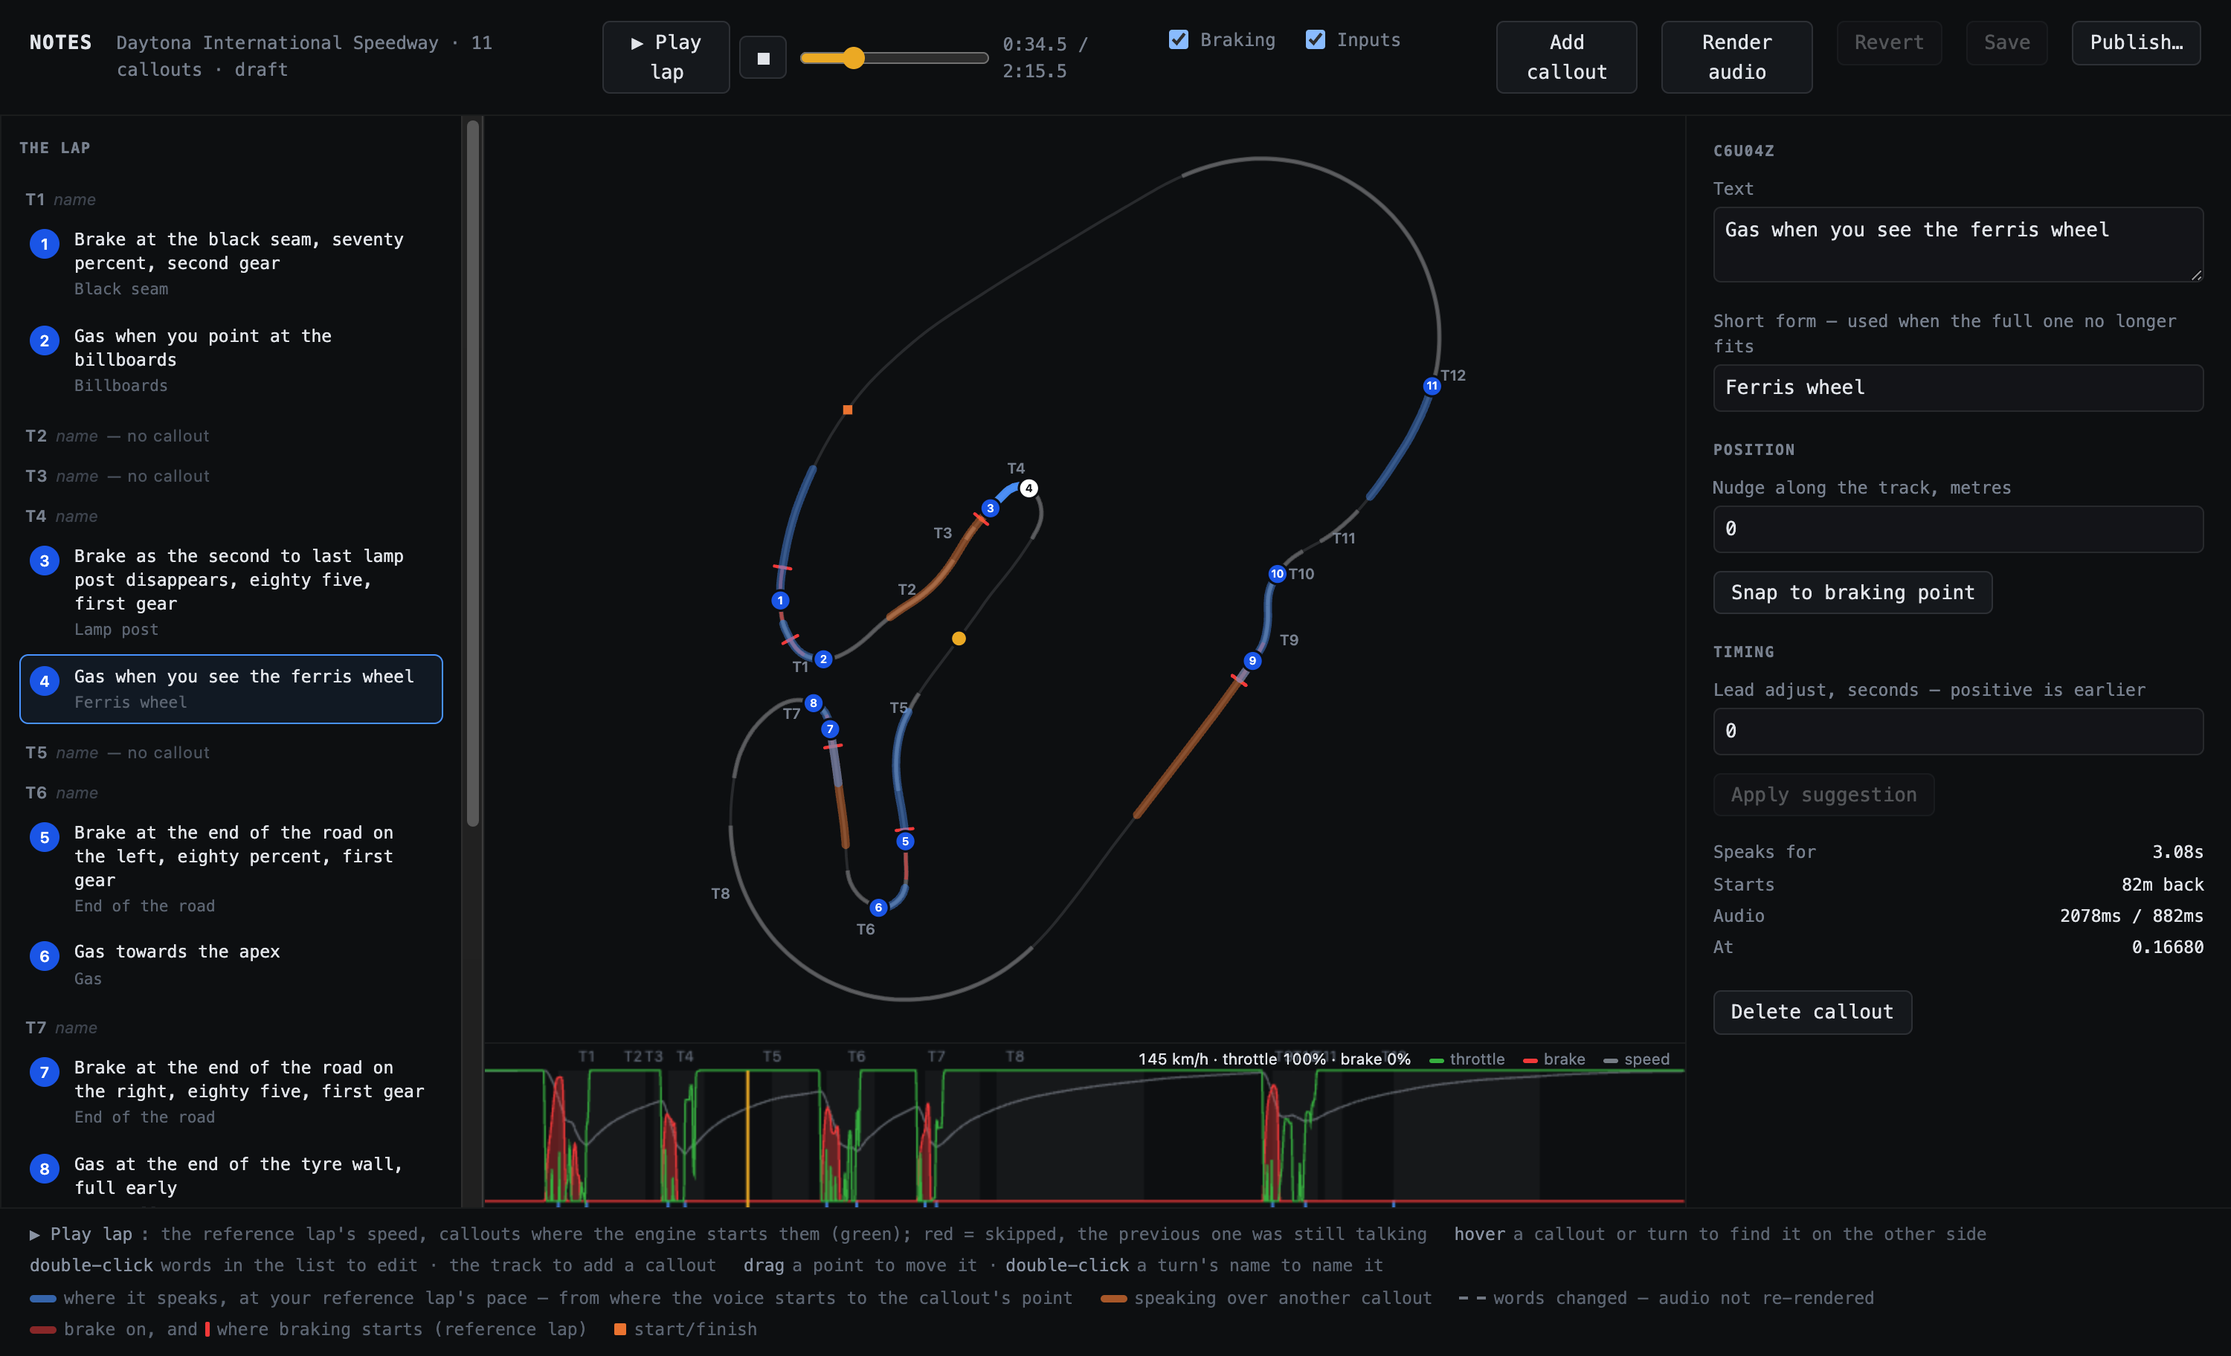
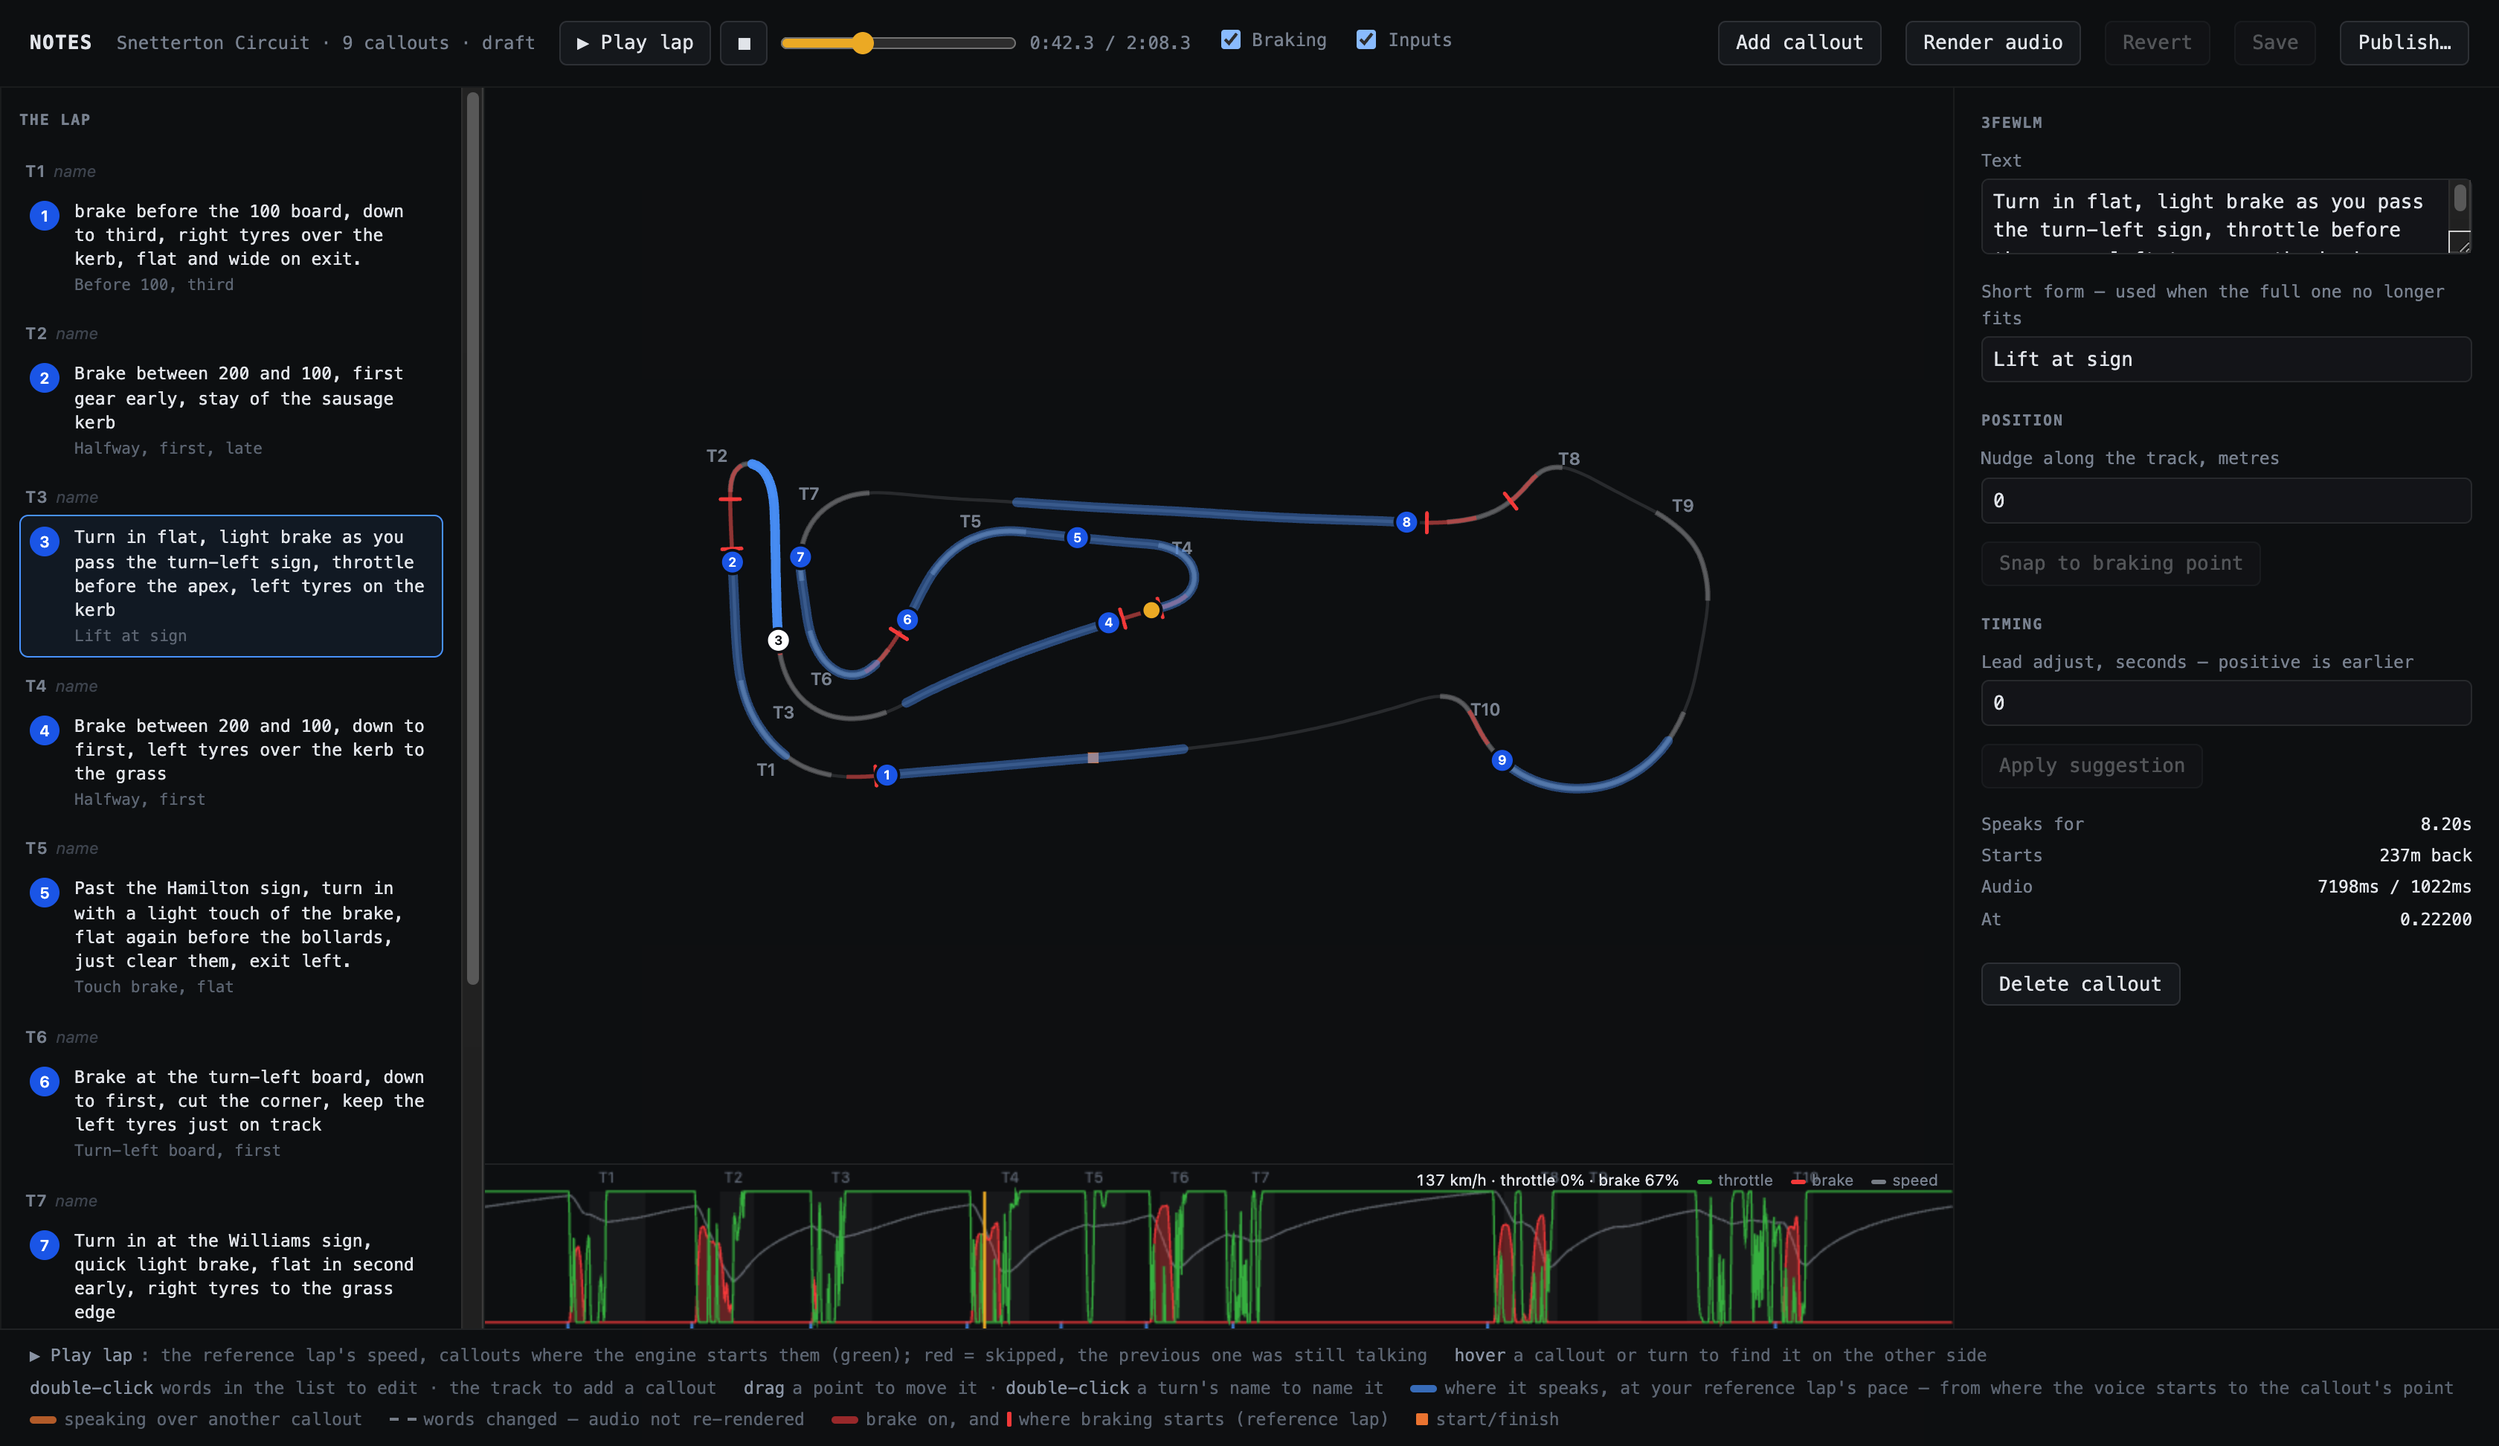
Use the Snetterton pack for the README screenshots and show every overlay with a description

diff --git a/README.md b/README.md
@@ -12,7 +12,7 @@ out of the windscreen, at the moment you need to hear it.
 A set of callouts for one track and car is a **callout pack**. You can write
 one, import one from a YouTube track guide, or install one another driver shared.
 
-![The note editor: Daytona road course with callouts, braking zones and the pedal chart](docs/screenshots/editor.png)
+![The note editor: Snetterton with callouts, braking zones and the pedal chart](docs/screenshots/editor.png)
 
 > **Status: alpha.** It runs against iRacing on Windows and is developed on a
 > Mac against recorded laps. There is no installer yet; run it from source
@@ -142,15 +142,62 @@ reference lap that callouts are timed against.
 
 ### Overlays
 
-| Track map | Pedals against the reference |
-| --- | --- |
-| ![Track map overlay](docs/screenshots/overlay-map.png) | ![Throttle and brake against the reference lap](docs/screenshots/overlay-inputs.png) |
+Transparent, click-through windows over the sim. Each one is its own window
+that you drag and resize into place; layouts are saved as profiles. They are
+shown only while iRacing is the window in front (a setting).
 
-Transparent, click-through windows over the sim, one per panel, dragged and
-resized into place and saved per profile: inputs, input and speed comparison
-against the reference, brake indicator, delta bar and sectors, corner analysis,
-standings, relatives, radar, track map, fuel, tyres, damage, weather, and the
-callouts log.
+The pictures below use the app's built-in sample feed, the one it shows while
+you arrange overlays, so the names and numbers are made up.
+
+**Driving**
+
+| Overlay | What it shows |
+| --- | --- |
+| <img src="docs/screenshots/overlays/inputs.png" alt="Essential Inputs" width="320"><br>**Essential Inputs** | Throttle and brake as a rolling trace and as bars, with speed, gear and steering. |
+| <img src="docs/screenshots/overlays/pedals.png" alt="Input Telemetry" width="320"><br>**Input Telemetry** | The fuller version: adds the reference lap's speed and gear under yours, the live delta and the steering angle. |
+| <img src="docs/screenshots/overlays/trace.png" alt="Input Comparison" width="320"><br>**Input Comparison** | Your throttle and brake against the reference lap over the track just ahead, with the reference braking point marked. |
+| <img src="docs/screenshots/overlays/speed.png" alt="Speed Comparison" width="320"><br>**Speed Comparison** | Your speed against the reference lap's over the next few hundred metres. |
+| <img src="docs/screenshots/overlays/brake.png" alt="Brake Indicator" width="320"><br>**Brake Indicator** | A countdown bar to the reference braking point, in metres. |
+
+**Timing**
+
+| Overlay | What it shows |
+| --- | --- |
+| <img src="docs/screenshots/overlays/delta.png" alt="Delta Bar" width="320"><br>**Delta Bar** | Time gained or lost against the reference lap, live. |
+| <img src="docs/screenshots/overlays/sectors.png" alt="Delta Sectors" width="320"><br>**Delta Sectors** | The delta per sector, with best, last and reference lap times. |
+| <img src="docs/screenshots/overlays/corners.png" alt="Corner Analysis" width="320"><br>**Corner Analysis** | Time gained or lost in the corner just taken and the apex speed difference, with the speed trace through it. |
+| <img src="docs/screenshots/overlays/reference.png" alt="Comparison Target" width="320"><br>**Comparison Target** | Which lap every delta is measured against, and the callout pack that is loaded. |
+
+**Race**
+
+| Overlay | What it shows |
+| --- | --- |
+| <img src="docs/screenshots/overlays/standings.png" alt="Standings" width="320"><br>**Standings** | The field by class: strength of field, licence and iRating, gap, interval, last and best lap. |
+| <img src="docs/screenshots/overlays/relative.png" alt="Relatives" width="320"><br>**Relatives** | The cars around you on track with the gap to each, plus temperatures, brake bias, incidents and time left. |
+| <img src="docs/screenshots/overlays/radar.png" alt="Radar" width="320"><br>**Radar** | Cars alongside you, with the occupied side lit. |
+
+**Track**
+
+| Overlay | What it shows |
+| --- | --- |
+| <img src="docs/screenshots/overlays/map.png" alt="Track Map" width="320"><br>**Track Map** | The whole circuit with every car by class position, and where the callouts are. |
+| <img src="docs/screenshots/overlays/minimap.png" alt="Mini Map" width="320"><br>**Mini Map** | A zoomed view of the track around your car. |
+
+**Car**
+
+| Overlay | What it shows |
+| --- | --- |
+| <img src="docs/screenshots/overlays/fuel.png" alt="Fuel Calculator" width="320"><br>**Fuel Calculator** | Fuel and laps left, usage per lap (last, average, max) and how much is needed to finish. |
+| <img src="docs/screenshots/overlays/tyres.png" alt="Tyres" width="320"><br>**Tyres** | Pressure, temperature across the tread and wear for each tyre, from the last pit read. |
+| <img src="docs/screenshots/overlays/damage.png" alt="Damage" width="320"><br>**Damage** | Required and optional repair time. |
+| <img src="docs/screenshots/overlays/weather.png" alt="Weather Conditions" width="320"><br>**Weather Conditions** | Sky, air and track temperature, humidity, rain, wind and how wet the track is. |
+
+**Exxeed**
+
+| Overlay | What it shows |
+| --- | --- |
+| <img src="docs/screenshots/overlays/callouts.png" alt="Callouts" width="320"><br>**Callouts** | A log of what was spoken, in which form, and what was skipped and why. |
+| <img src="docs/screenshots/overlays/telemetry.png" alt="Telemetry" width="320"><br>**Telemetry** | The raw values the app is reading from the sim, for checking a setup. |
 
 ### Not built yet
 
